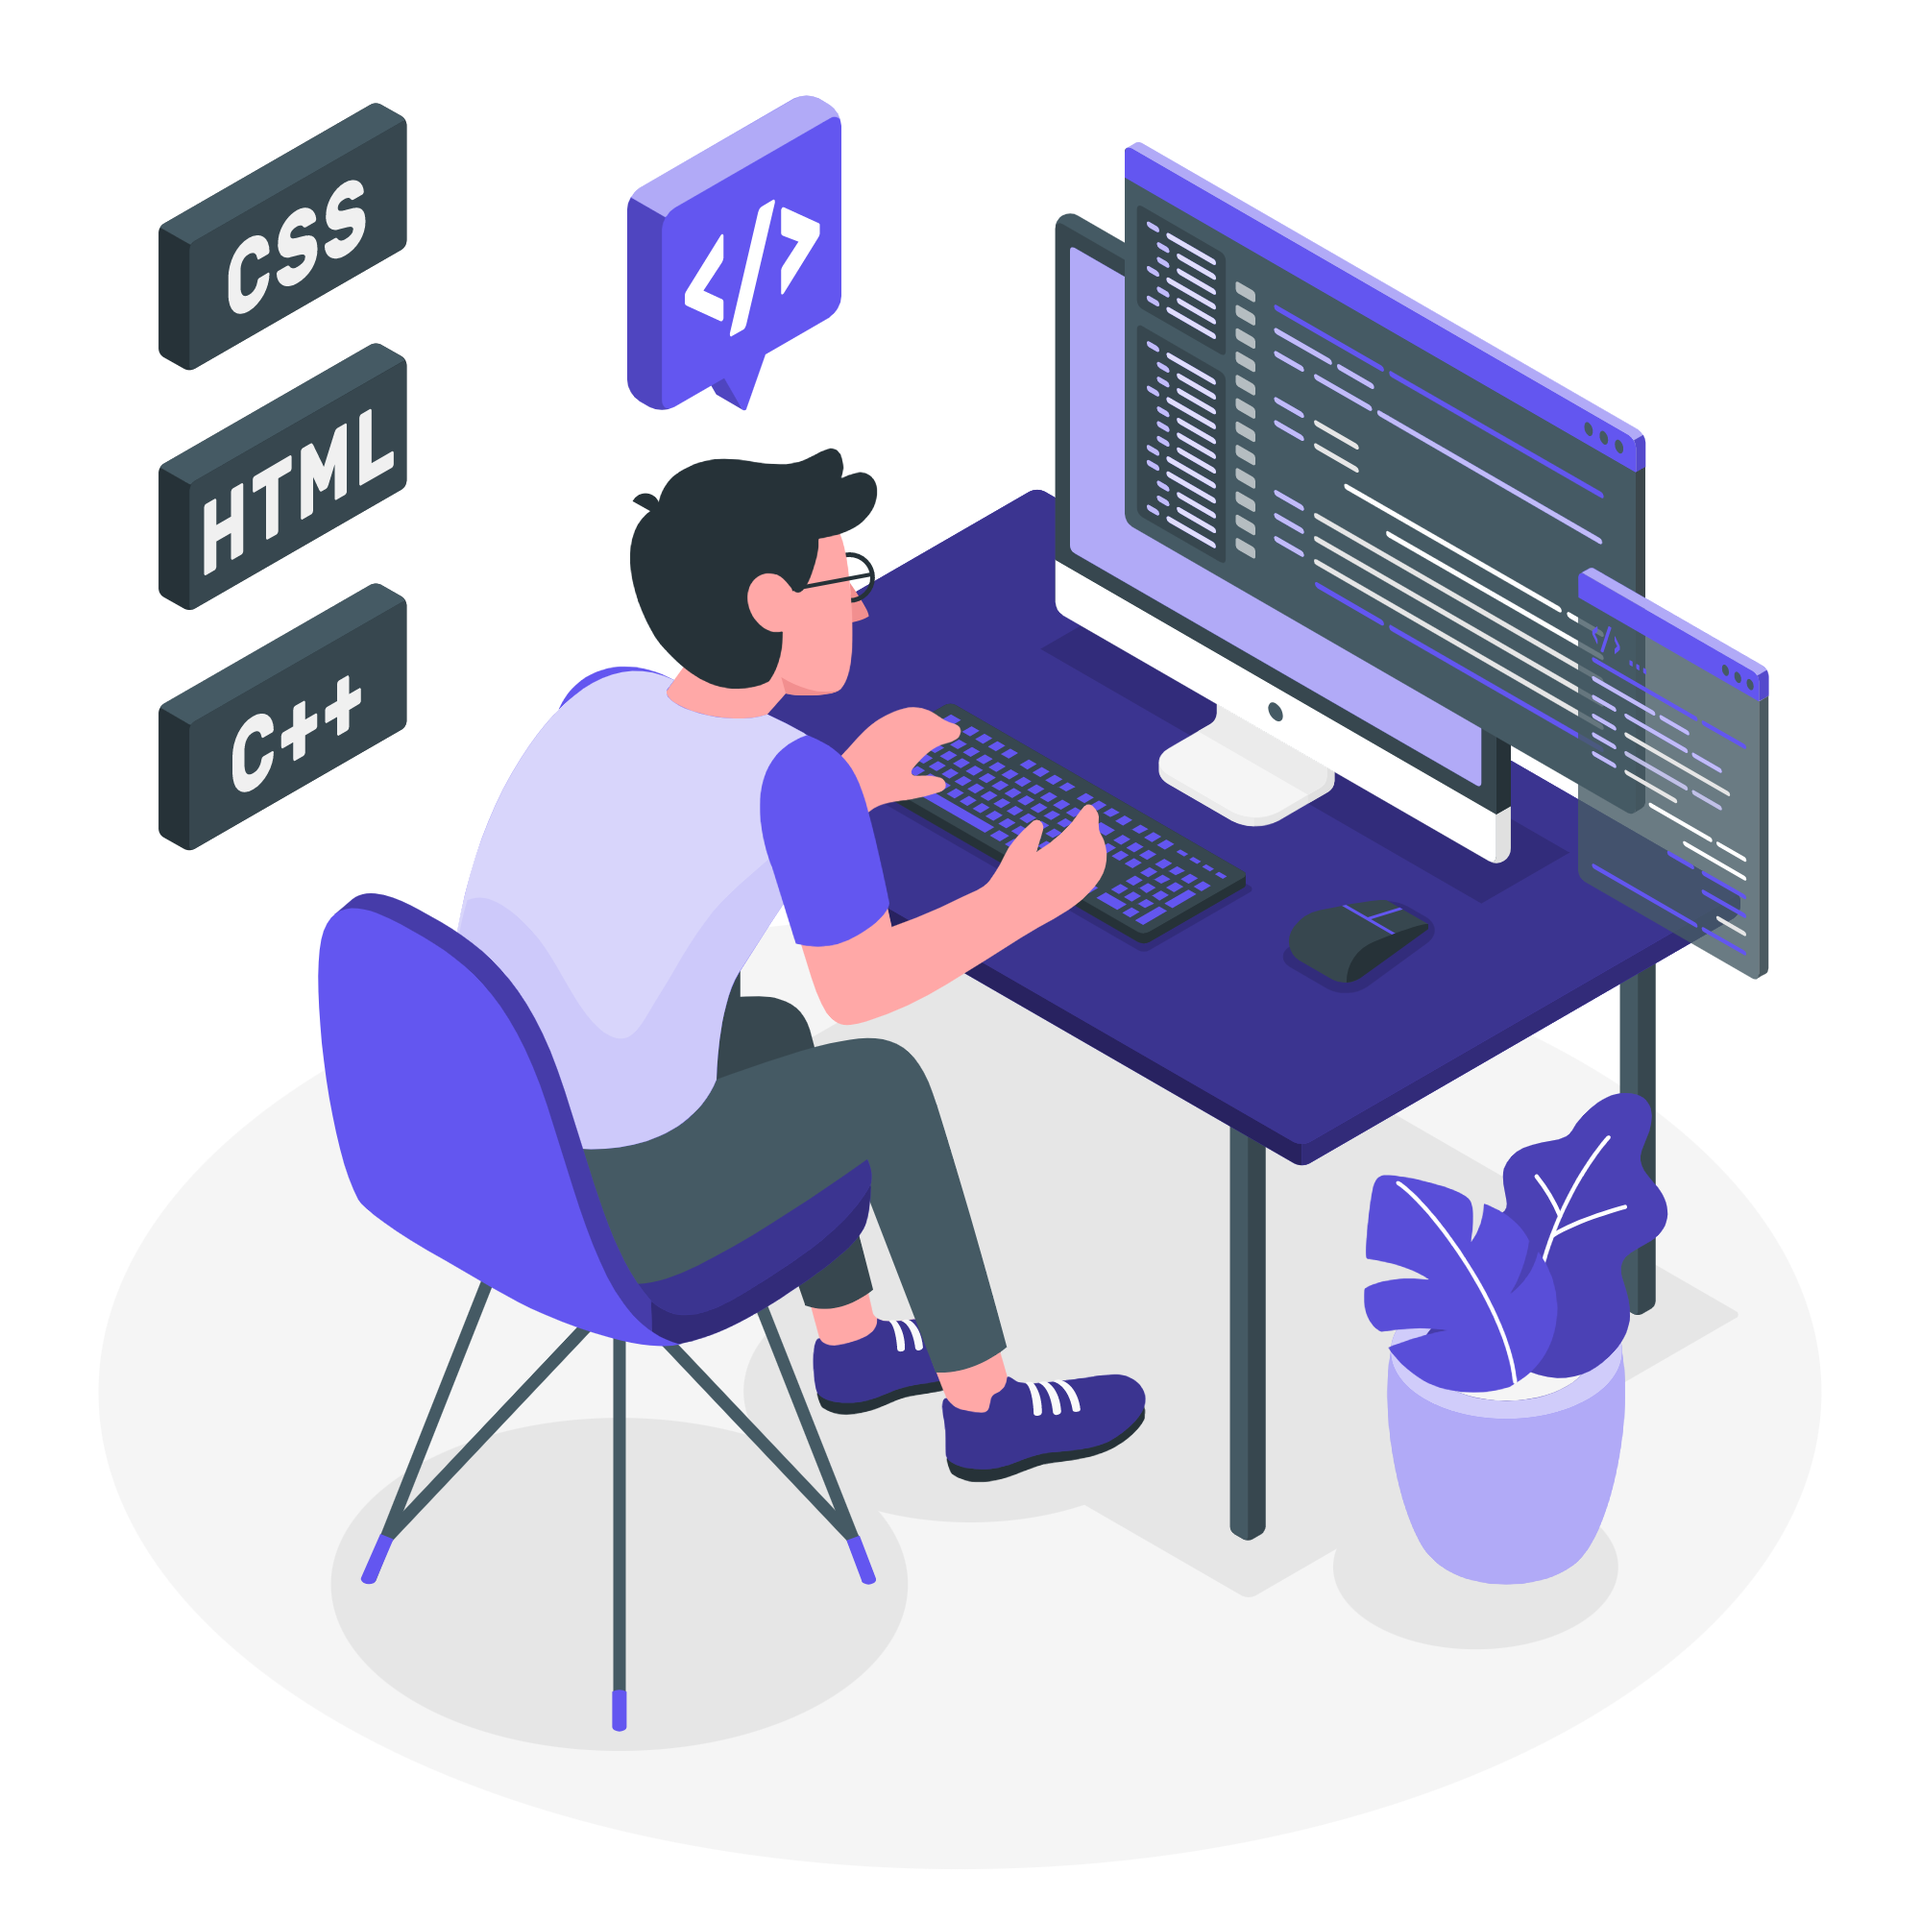
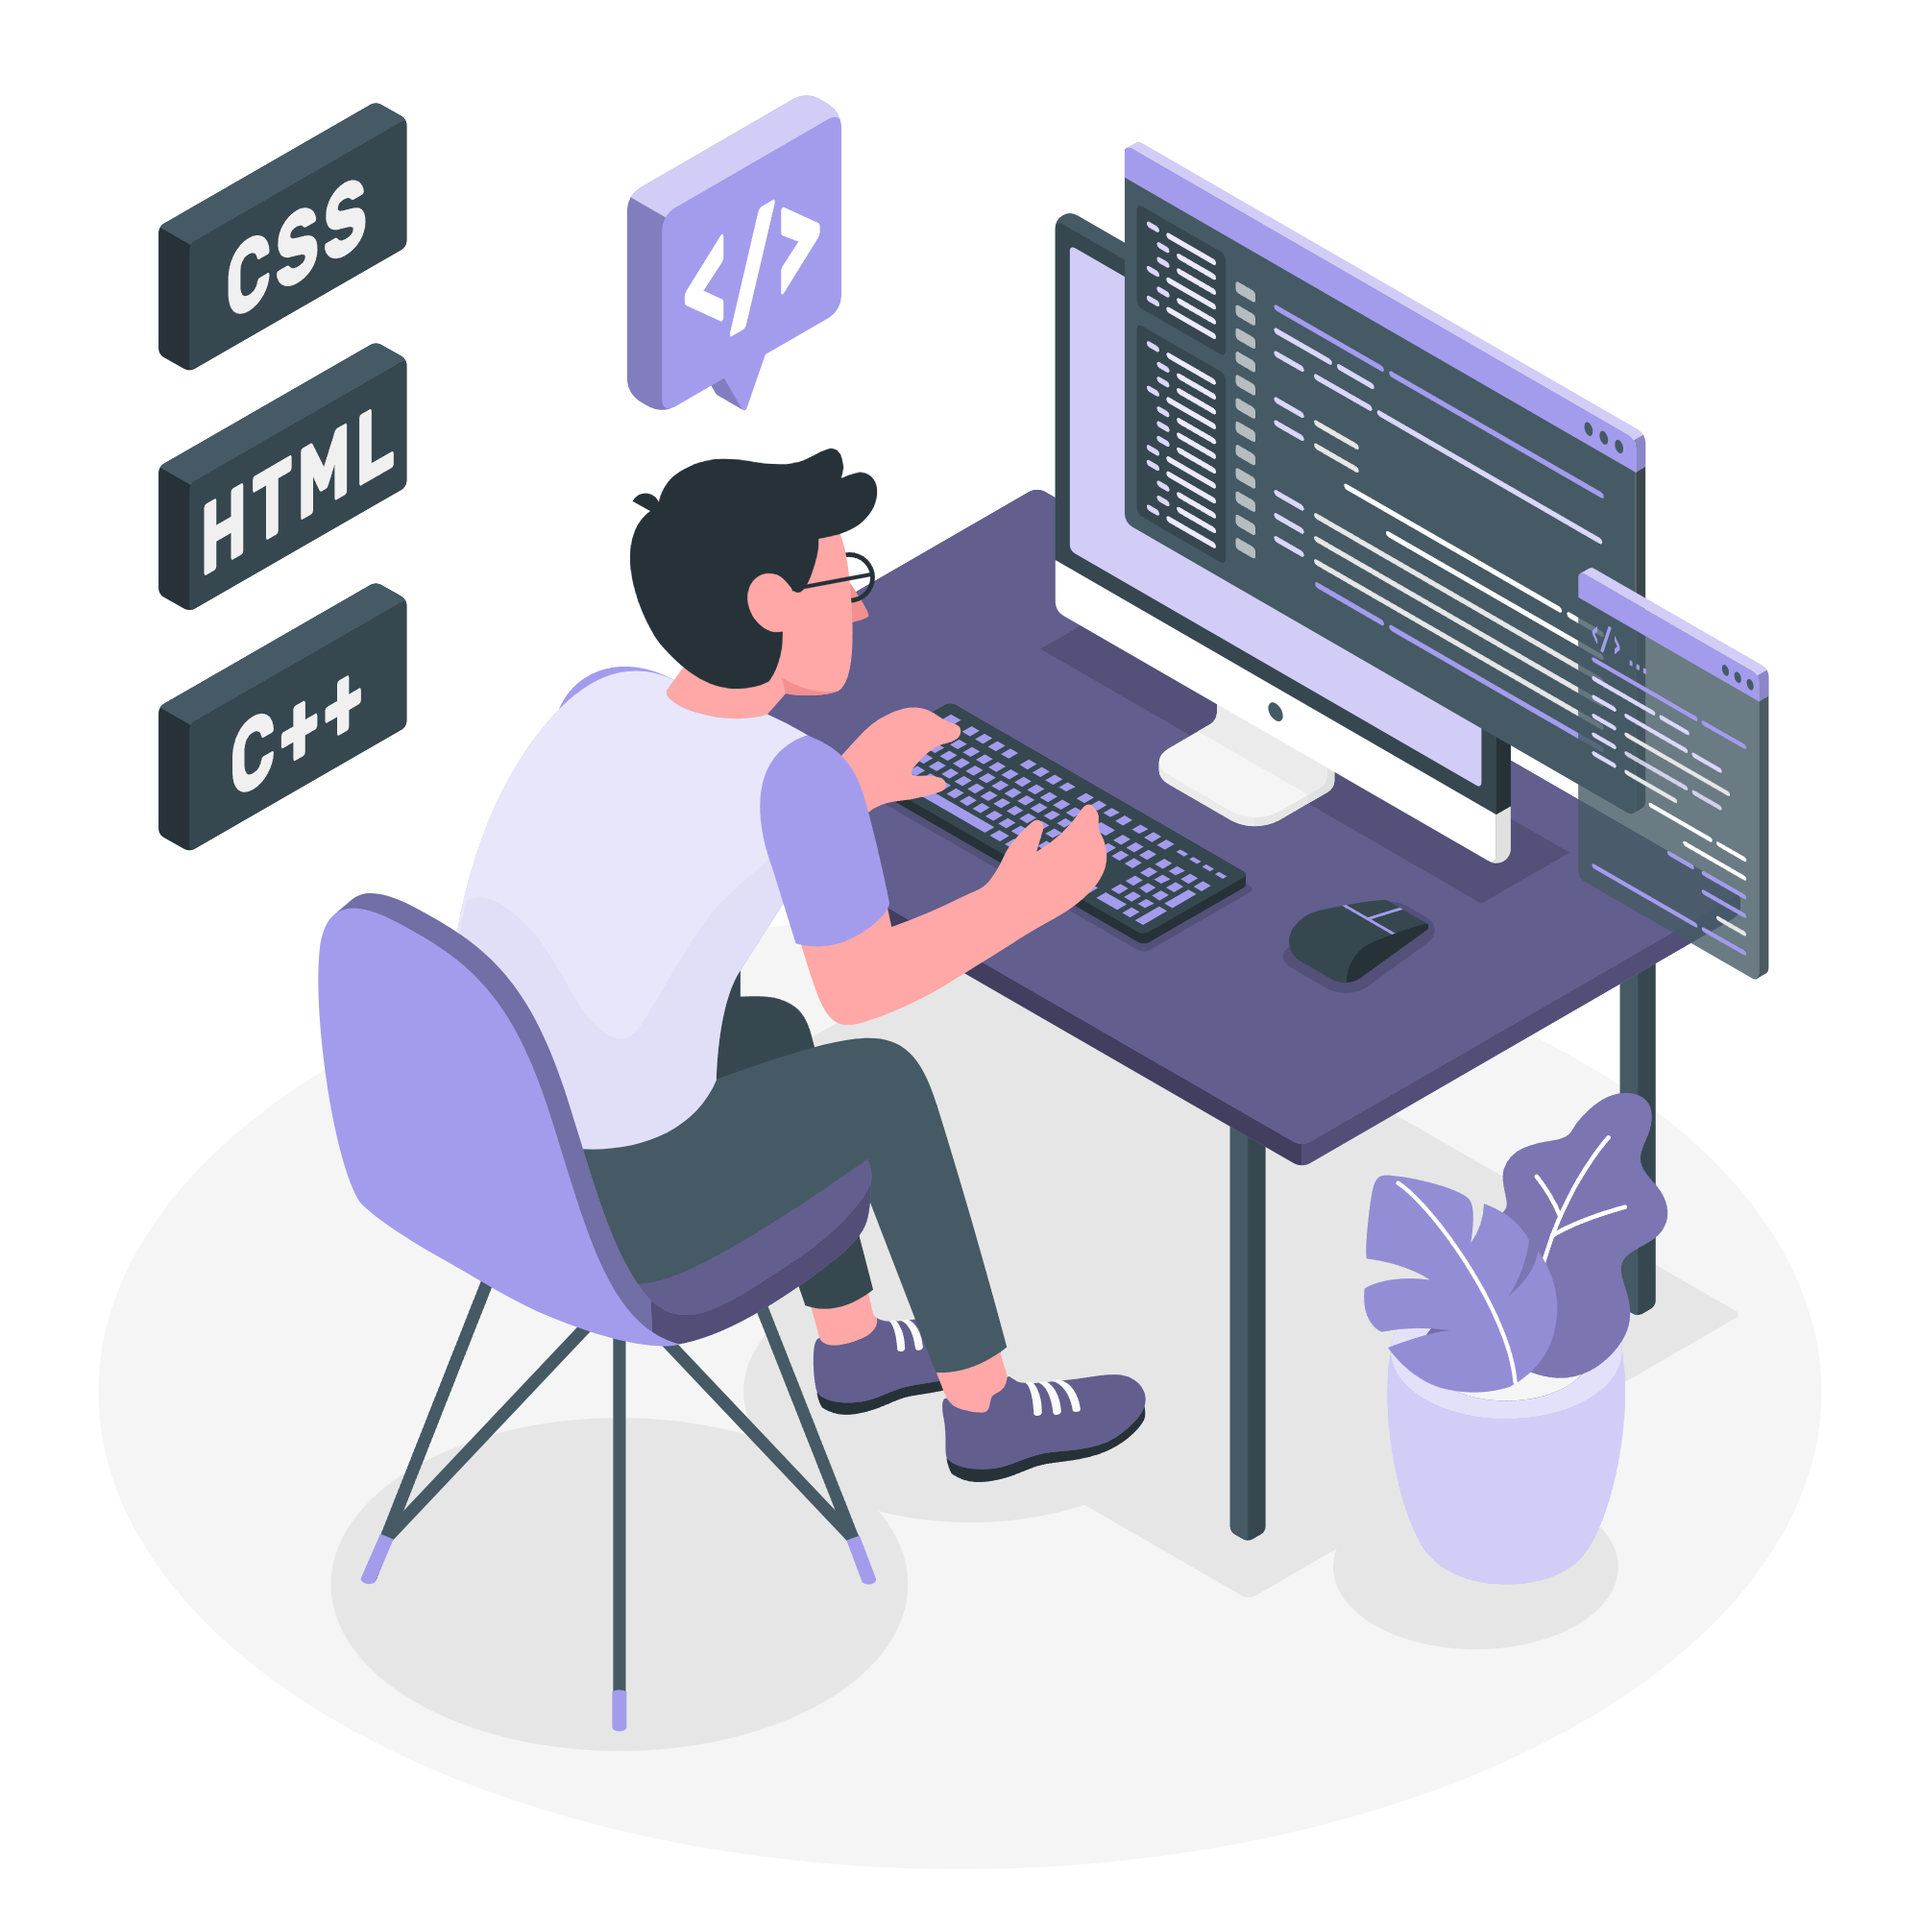
using only dark theme

diff --git a/src/main.css b/src/main.css
@@ -12,11 +12,11 @@
 }
 
 :root{
-  --color-bg: #F4F0FF;
-  --color-primary: #6356F0;
+  --color-bg: #0B0F1F;
+  --color-primary: #A39CED;
   --color-secondary: #0B0F1F;
   --color-gray: #9c9c9c;
-
+  --color-letters: #F4F0FF;
   --transition: all ease-in-out .4s;
 
   --font-size-title-1040: 1.7rem;
@@ -41,7 +41,7 @@ html{
 
 body{
   background-color: var(--color-bg);
-  color: var(--color-secondary);
+  color: var(--color-letters);
   line-height: 1.6;
 }
 
@@ -55,7 +55,7 @@ body{
 }
 
 a{
-  color: var(--color-secondary);
+  color: var(--color-letters);
 }
 
 h3 > strong{
@@ -69,7 +69,7 @@ h3 > strong{
 	font-size: var(--font-size-small);
   cursor: pointer;
   transition: var(--transition);
-  color: white;
+  color: var(--color-bg);
   background-color: var(--color-primary);
   border: 1px solid var(--color-primary);
   box-shadow: var(--box-shadow);

diff --git a/src/components/Header/styles.css b/src/components/Header/styles.css
@@ -20,11 +20,11 @@
 
 .header__title{
   font-size: var(--font-size-medium);
-  color: var(--color-primary);
+  color: var(--color-letters);
 }
 
 .header__title > strong{
-  color: var(--color-secondary);
+  color: var(--color-primary);
   font-size: var(--font-size-big);
 }
 
@@ -159,15 +159,15 @@
   }
   
   .header__bg{
-    width: 200rem;
-    height: 10rem;
-    bottom: -5rem;
-    right: 50%;
-    transform: translateX(50%);
+    display: none;
   }
 
   .socials-icons{
     color: var(--color-primary); 
+  }
+
+  .socials-icons:hover{
+    color: var(--color-letters);
   }
 
   .cta > a{

diff --git a/src/components/Nav/styles.css b/src/components/Nav/styles.css
@@ -1,6 +1,6 @@
 .navbar{
   width: 100vw;
-  height: 5rem;
+  height: 4rem;
   display: flex;
   background-color: var(--color-bg);
   position: fixed;
@@ -58,7 +58,7 @@
     position: absolute;
     right: -100%;
     gap: 0;
-    top: 5rem;
+    top: 4rem;
     transition: var(--transition);
     width: 50vw;  
   }
@@ -97,7 +97,7 @@
   .bar{   
     height: 5px;
     width: 35px;
-    background: var(--color-secondary);
+    background: var(--color-letters);
     border-radius: 5px;
     margin: 4px auto;
     transform-origin: right;

diff --git a/src/components/Contact/styles.css b/src/components/Contact/styles.css
@@ -45,7 +45,7 @@
 }
 
 .options__link > a:hover{
-  color: var(--color-secondary);
+  color: var(--color-primary);
   transition: var(--transition);
 }
 
@@ -67,6 +67,8 @@ input, textarea{
   width: 100%;
   resize: none;
   color: var(--color-secondary);
+  background-color: var(--color-bg);
+  border: 1px solid var(--color-primary);
   box-shadow: var(--box-shadow);
 }
 

diff --git a/src/components/About/styles.css b/src/components/About/styles.css
@@ -21,6 +21,10 @@
   text-align: center;
 }
 
+.me__text > strong{
+  color: var(--color-primary);
+}
+
 /* SKILLS */
 .skills__title{
   margin-top: var(--font-size-medium);
@@ -46,6 +50,7 @@
 .card__icon{
   width: 85px;
   height: 85px;
+  color: var(--color-primary);
 }
 
 .skills__card{

diff --git a/src/components/Portfolio/styles.css b/src/components/Portfolio/styles.css
@@ -48,6 +48,10 @@
 	background-color: var(--color-primary);
 }
 
+.swiper-pagination-bullet{
+	background-color: var(--color-primary);
+}
+
 @media screen and (max-width: 1040px){
 	.portfolio__title > small{
 		font-size: 0.8rem;
